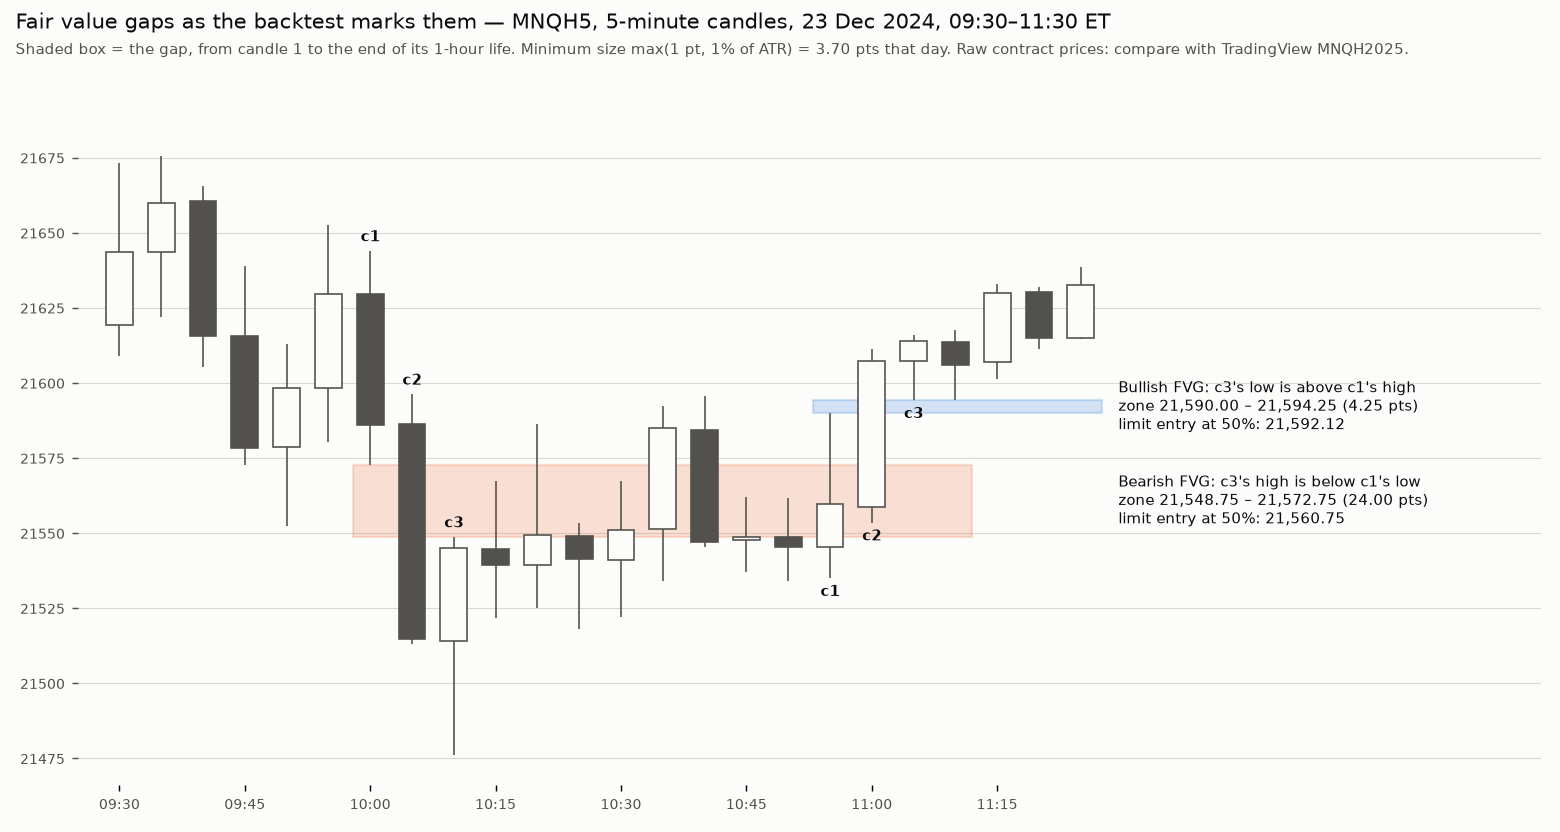
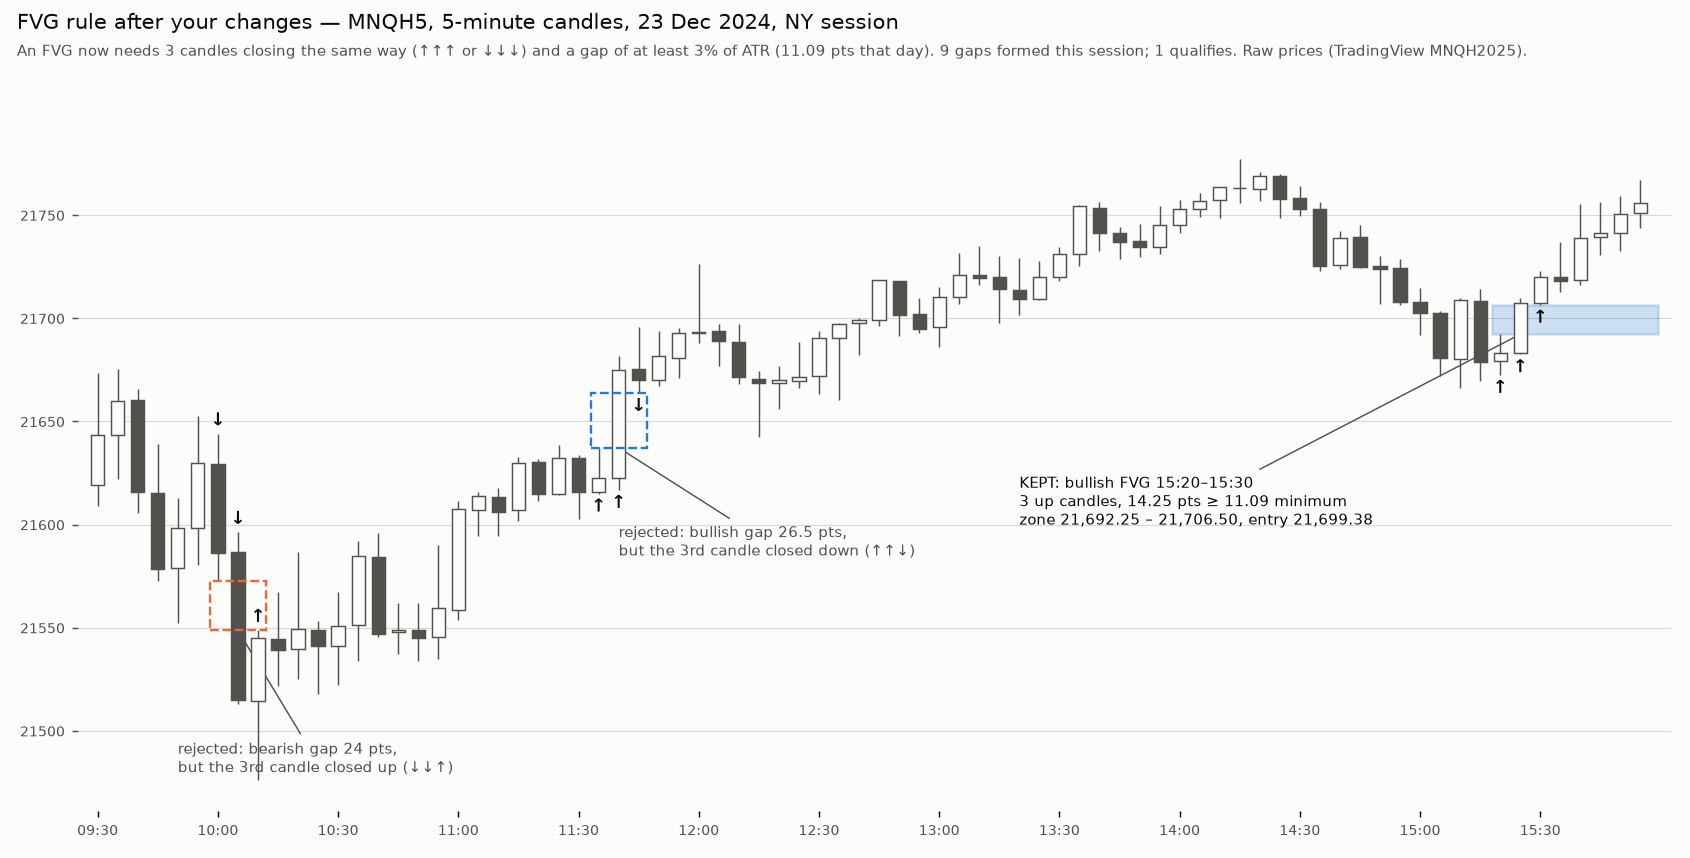
FVG: three candles closing the same way, and medium/big gaps only
As marked by hand: a bullish FVG needs all three candles to close up, a
bearish one all three down (rules.fvg.same_direction), and the gap must be
at least 3% of the daily ATR (was 1%), about 8-11 points at 2024-2025
prices, roughly the largest third of three-candle gaps.

The random-walk test now uses 3 years of synthetic data so it still has
more than 300 trades. The committed Step 3 report used the old FVG rule.

Claude-Session: https://claude.ai/code/session_01MUxBAkDYNSp9w8zRYfJv3t

diff --git a/mnqbt/rules/fvg.py b/mnqbt/rules/fvg.py
@@ -3,7 +3,9 @@
 Three consecutive bars c1, c2, c3 (same trading day, no missing bin between):
 * Bullish FVG if low(c3) > high(c1): zone [high(c1), low(c3)]
 * Bearish FVG if high(c3) < low(c1): zone [high(c3), low(c1)]
-Size = top - bottom must be >= min_size (points / ATR fraction).  The FVG is
+Size = top - bottom must be >= min_size (points / ATR fraction).
+With ``same_direction``, all three candles must close the same way as the gap
+(bullish: close > open for c1, c2 and c3; bearish: close < open for all three).  The FVG is
 known at the close of c3 and stays usable for ``max_age_bars`` bars after
 that (``expire_ns``).
 """
@@ -17,10 +19,12 @@ from mnqbt.rules.bars import tf_minutes
 from mnqbt.timeutil import NS_PER_MIN
 
 
-def detect_fvgs(bars: pd.DataFrame, tf: str, min_size: np.ndarray | float, max_age_bars: int) -> pd.DataFrame:
+def detect_fvgs(bars: pd.DataFrame, tf: str, min_size: np.ndarray | float, max_age_bars: int,
+                same_direction: bool = False) -> pd.DataFrame:
     width = tf_minutes(tf) * NS_PER_MIN
     h = bars["high"].to_numpy(float)
     l = bars["low"].to_numpy(float)
+    body = np.sign(bars["close"].to_numpy(float) - bars["open"].to_numpy(float))
     start = bars["start_ns"].to_numpy()
     td = bars["tdate"].to_numpy()
     min_size = np.broadcast_to(np.asarray(min_size, float), h.shape)
@@ -34,6 +38,8 @@ def detect_fvgs(bars: pd.DataFrame, tf: str, min_size: np.ndarray | float, max_a
         size = top - bottom
         with np.errstate(invalid="ignore"):
             ok = contiguous & (size > 0) & (size >= min_size[k])
+        if same_direction:
+            ok &= (body[k - 2] == direction) & (body[k - 1] == direction) & (body[k] == direction)
         kk = k[ok]
         rows.append(
             pd.DataFrame(

diff --git a/tests/test_fvg.py b/tests/test_fvg.py
@@ -64,3 +64,13 @@ def test_entry_price_fraction_and_tick_rounding():
     # 101.75..103 midpoint 102.375 -> rounded one tick deeper into the zone for a long (102.25)
     assert entry_price(top, bottom, d, 0.0, 0.25).tolist() == [103.0, 103.0, 105.0]
     assert entry_price(top, bottom, d, 1.0, 0.25).tolist() == [101.0, 101.75, 108.0]
+
+
+def test_same_direction_needs_three_candles_closing_the_gaps_way():
+    from mnqbt.rules.fvg import detect_fvgs
+    from tests.conftest import bars_from_ohlc
+    up = [(100, 102, 99, 101.5), (101.5, 106, 101, 105.5), (105.5, 108, 104, 107.5)]   # gap 102 -> 104, three up candles
+    assert len(detect_fvgs(bars_from_ohlc(up), "5min", 1.0, 12, same_direction=True)) == 1
+    mixed = up[:2] + [(107.5, 108, 104, 105)]                                           # third candle closes down
+    assert len(detect_fvgs(bars_from_ohlc(mixed), "5min", 1.0, 12)) == 1
+    assert len(detect_fvgs(bars_from_ohlc(mixed), "5min", 1.0, 12, same_direction=True)) == 0

diff --git a/tests/test_no_lookahead.py b/tests/test_no_lookahead.py
@@ -158,7 +158,7 @@ def test_each_order_is_reproducible_from_data_before_its_placement(cfg, series, 
 @pytest.mark.parametrize("name", ["baseline", "baseline_no_fvg"])
 def test_random_walk_shows_no_edge_before_costs(cfg, name):
     cv = _variant(cfg, name)
-    F = _features(cv, *_series(cv, "2019-01-02", "2020-12-31", 3))
+    F = _features(cv, *_series(cv, "2018-01-02", "2020-12-31", 3))
     it, _ = build_intents(F, cv)
     tr, _ = simulate(Market.from_frame(F.a1), it, EngineSettings.from_cfg(cv))
     assert len(tr) > 300

diff --git a/mnqbt/rules/features.py b/mnqbt/rules/features.py
@@ -89,7 +89,7 @@ class Features:
         def make():
             bars = self.bars("a", f["timeframe"])
             min_size = resolve_dist(f["min_size"], self.atr_for(cfg, bars))
-            return detect_fvgs(bars, f["timeframe"], min_size, int(f["max_age_bars"]))
+            return detect_fvgs(bars, f["timeframe"], min_size, int(f["max_age_bars"]), bool(f.get("same_direction", False)))
 
         return self._cached("fvgs", cfg, ["rules.fvg", "rules.atr_days"], make)
 

diff --git a/DEFINITIONS.md b/DEFINITIONS.md
@@ -60,9 +60,9 @@ The older **near** mode (`rules.levels.mode: near`) is still available: the swin
 ## 3. Fair value gap (entry zone)
 
 - **Definition.** Three consecutive candles on the 5-minute chart (15-minute as a variant), in the same trading day with no missing candle between.
-  - **Bullish FVG:** candle 3's low is above candle 1's high. The zone runs from candle 1's high up to candle 3's low.
-  - **Bearish FVG:** candle 3's high is below candle 1's low.
-- **Minimum size.** max(1 pt, 0.01 × ATR), about 3.5 points at 2025 prices.
+  - **Bullish FVG:** candle 3's low is above candle 1's high, and **all three candles close up** (close above open). The zone runs from candle 1's high up to candle 3's low.
+  - **Bearish FVG:** candle 3's high is below candle 1's low, and **all three candles close down**.
+- **Minimum size.** max(1 pt, 0.03 × ATR): medium and big gaps only, about 8–11 points at 2024–2025 prices. That keeps roughly the largest third of three-candle gaps.
 - **Known** when candle 3 closes. **Valid** for 12 candles after that (1 hour on 5m).
 
 ## 4. SMT divergence (a confirmation, not a requirement)
